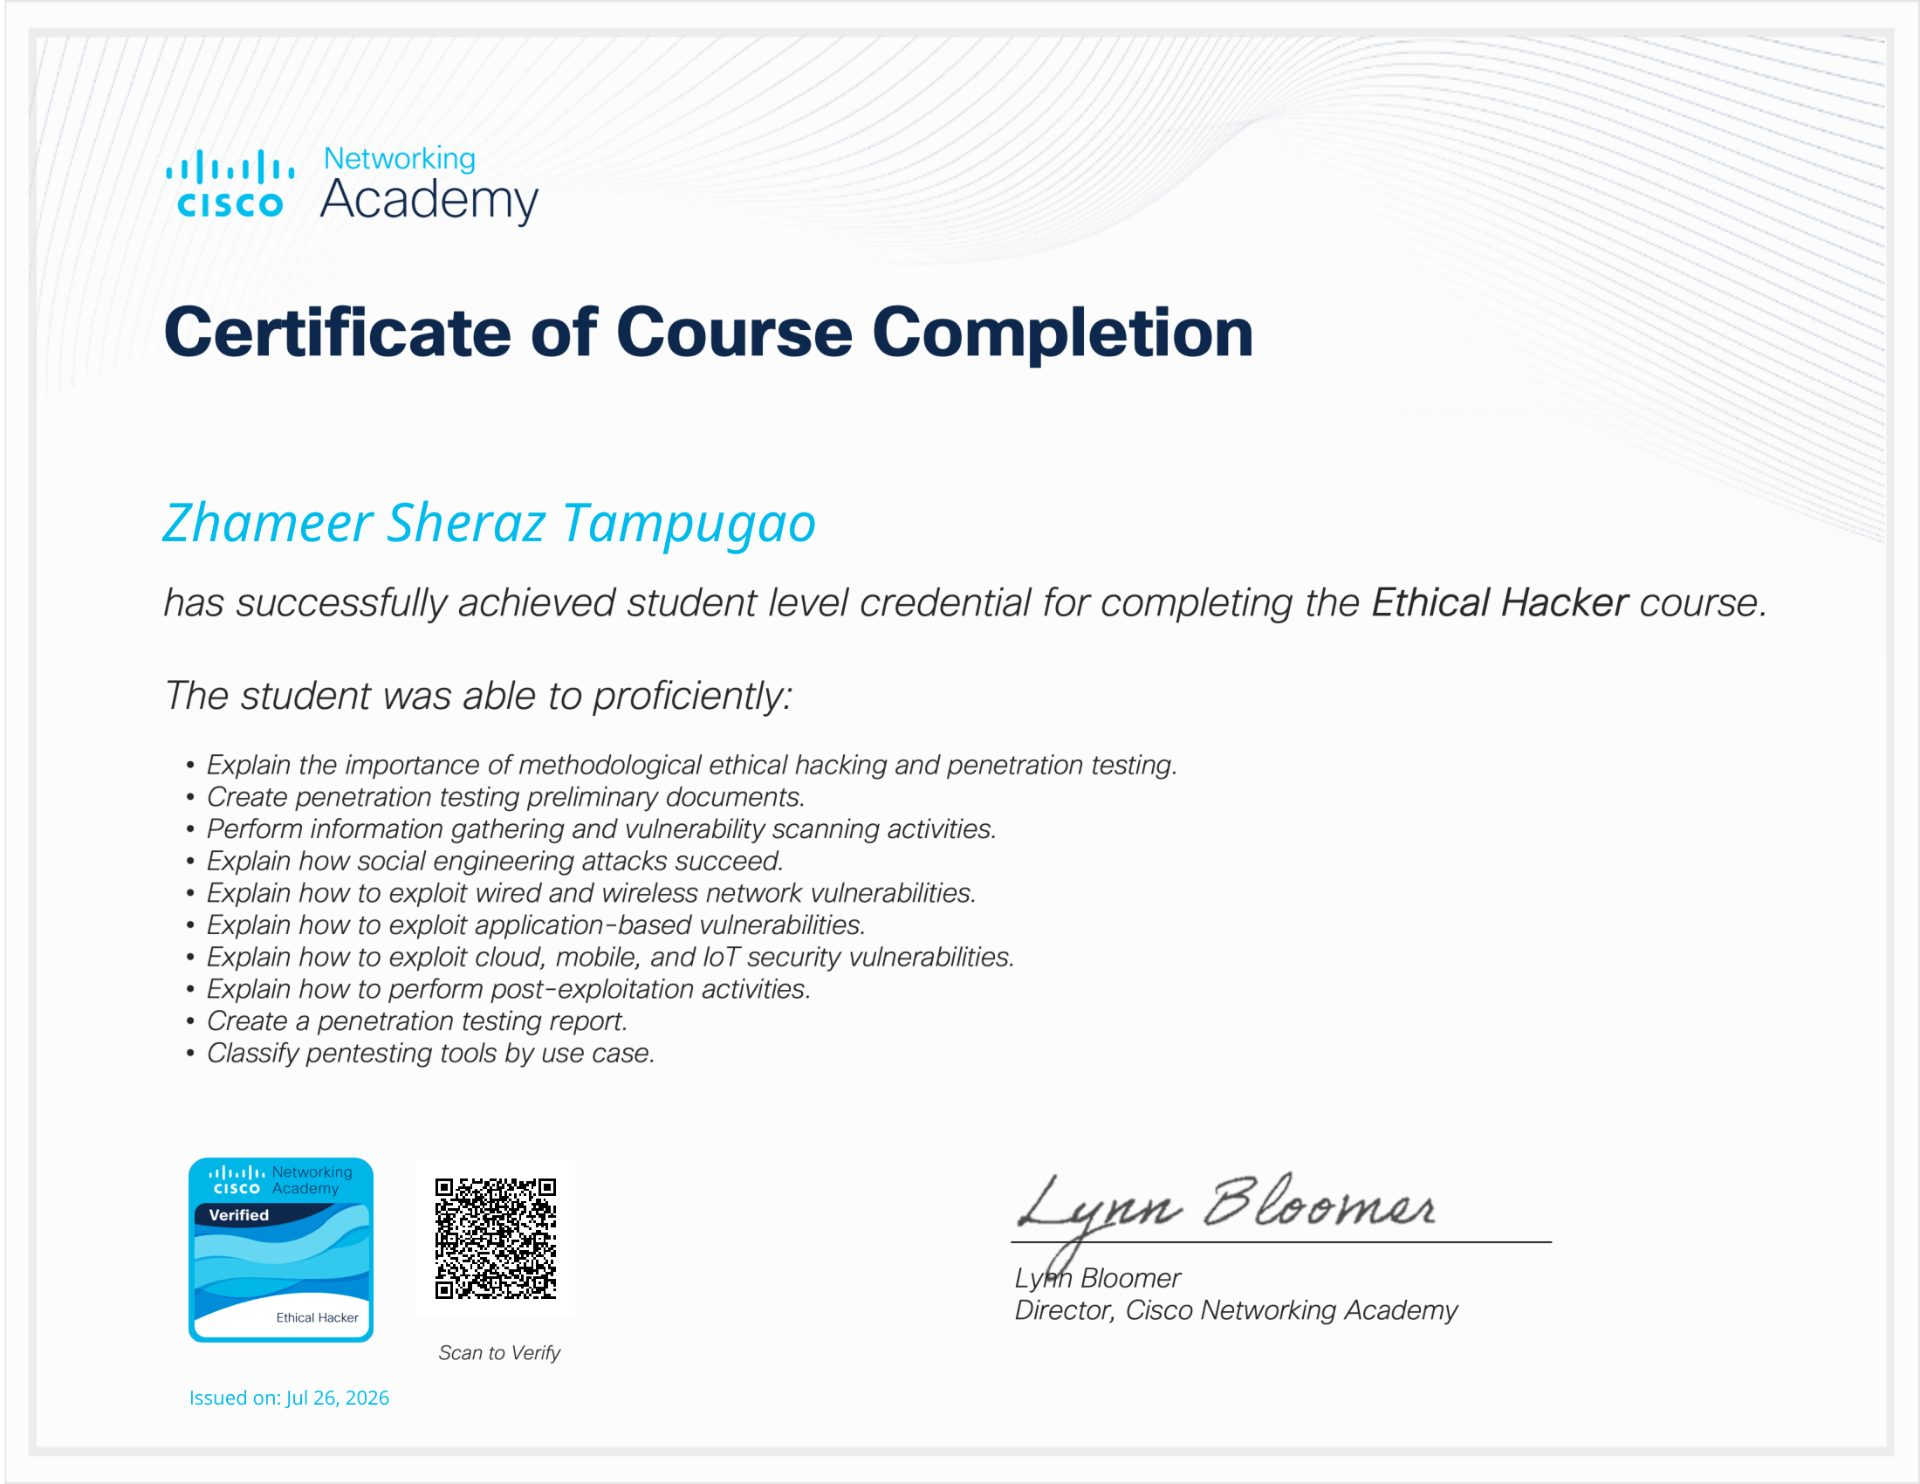
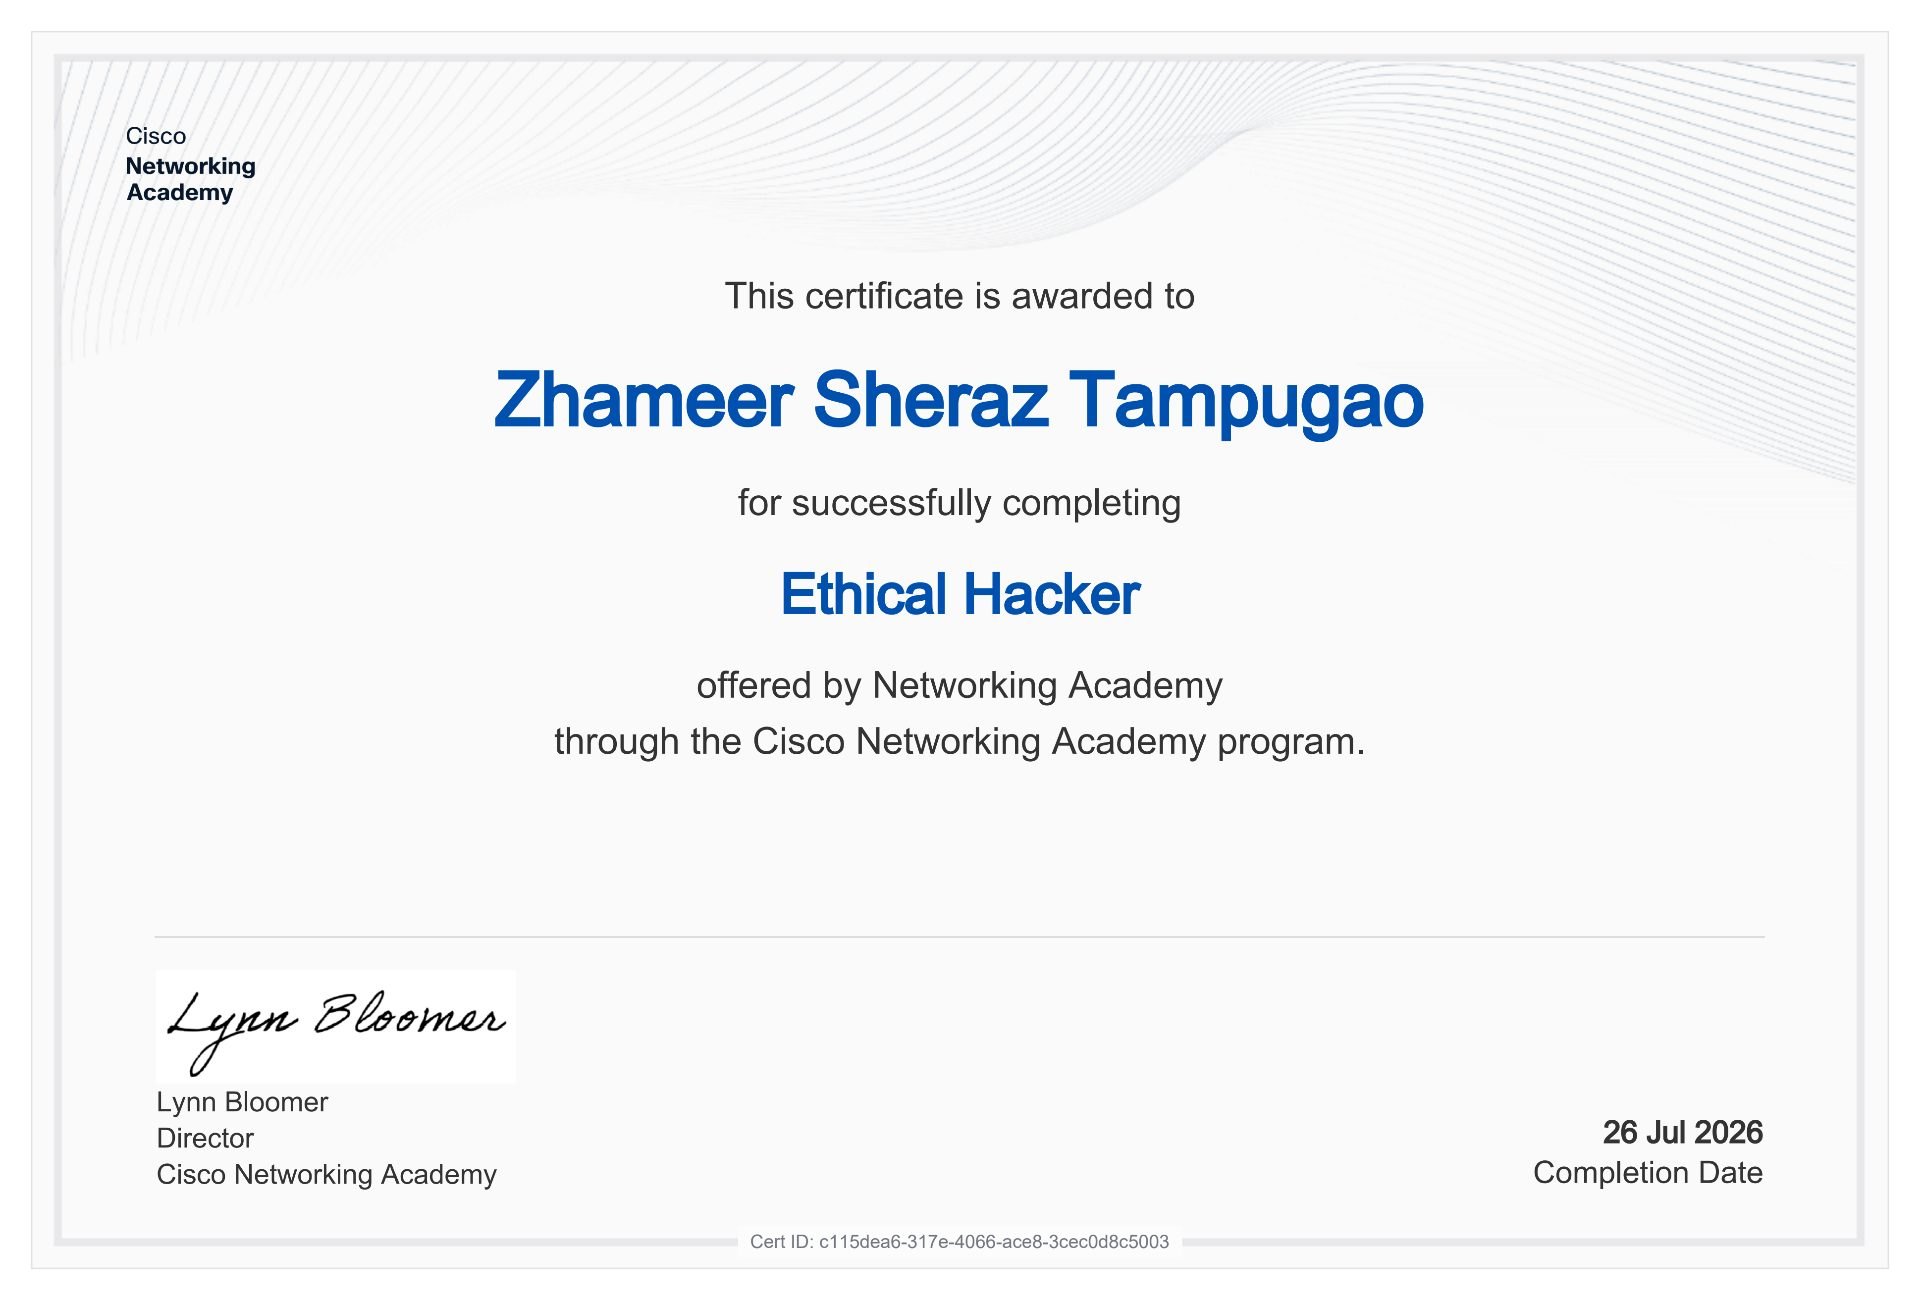
v2.51: replace Cisco certs with official Networking Academy versions (signed by Lynn Bloomer)

diff --git a/src/lib/config.ts b/src/lib/config.ts
@@ -172,6 +172,7 @@ export const CERTS: Cert[] = [
     issuer: "Cisco Networking Academy",
     issued: "Jul 2026",
     image: "/certs/cisco-intro-cybersecurity.png",
+    aspect: 1.477,
   },
   {
     id: "cisco-ethical-hacker",
@@ -179,6 +180,7 @@ export const CERTS: Cert[] = [
     issuer: "Cisco Networking Academy",
     issued: "Jul 2026",
     image: "/certs/cisco-ethical-hacker.png",
+    aspect: 1.477,
   },
   {
     id: "cisco-intro-modern-ai",
@@ -186,6 +188,7 @@ export const CERTS: Cert[] = [
     issuer: "Cisco Networking Academy",
     issued: "Aug 2026",
     image: "/certs/cisco-intro-modern-ai.png",
+    aspect: 1.477,
   },
   {
     id: "ibm-ai-fundamentals",
